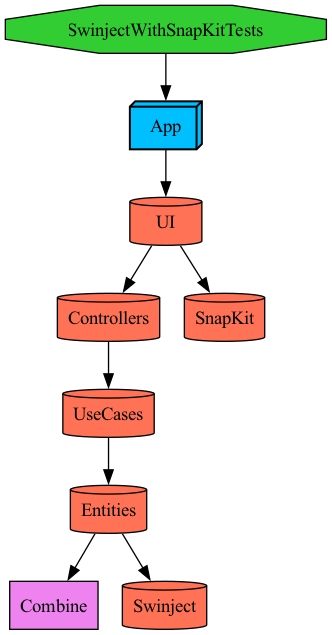
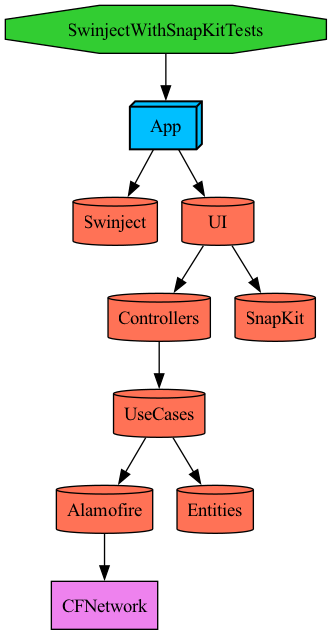
chore: Tuist에서 Combine 제거

Changed region(s): [[0.0301, 0.2394, 0.9639, 1.0], [0.5422, 0.2394, 0.5723, 0.2693], [0.4217, 0.2394, 0.4518, 0.2693]]

diff --git a/Tuist/ProjectDescriptionHelpers/TargetDependency+Extension.swift b/Tuist/ProjectDescriptionHelpers/TargetDependency+Extension.swift
@@ -21,7 +21,7 @@ extension TargetDependency {
     // MARK: - Apple SDK
     
     public enum SDK {
-        public static let combine: TargetDependency = .sdk(name: "Combine", type: .framework, status: .required)
+//        public static let combine: TargetDependency = .sdk(name: "Combine", type: .framework, status: .required)
     }
     
     // MARK: - 외부 라이브러리

diff --git a/Projects/App/Project.swift b/Projects/App/Project.swift
@@ -19,7 +19,9 @@ let project = Project(
             sources: ["Sources/**"],
             resources: ["Resources/**"],
             dependencies: [
-                .Project.ui
+                .Project.ui,
+                .External.swinject,
+//                .SDK.combine,
             ]
         ),
         .target(

diff --git a/Projects/Controllers/Project.swift b/Projects/Controllers/Project.swift
@@ -12,7 +12,8 @@ let project = Project(
             deploymentTargets: .iOS("17.0"),
             sources: ["Sources/**"],
             dependencies: [
-                .Project.useCases
+                .Project.useCases,
+//                .SDK.combine
             ]
         )
     ]

diff --git a/Projects/UseCases/Project.swift b/Projects/UseCases/Project.swift
@@ -14,8 +14,7 @@ let project = Project(
             dependencies: [
                 .Project.entities,
                 .External.alamofire,
-                .External.swinject,
-                .SDK.combine
+//                .SDK.combine
             ]
         )
     ]

diff --git a/Projects/UI/Project.swift b/Projects/UI/Project.swift
@@ -14,6 +14,7 @@ let project = Project(
             dependencies: [
                 .Project.controllers,
                 .External.snapKit,
+//                .SDK.combine
             ]
         )
     ]
